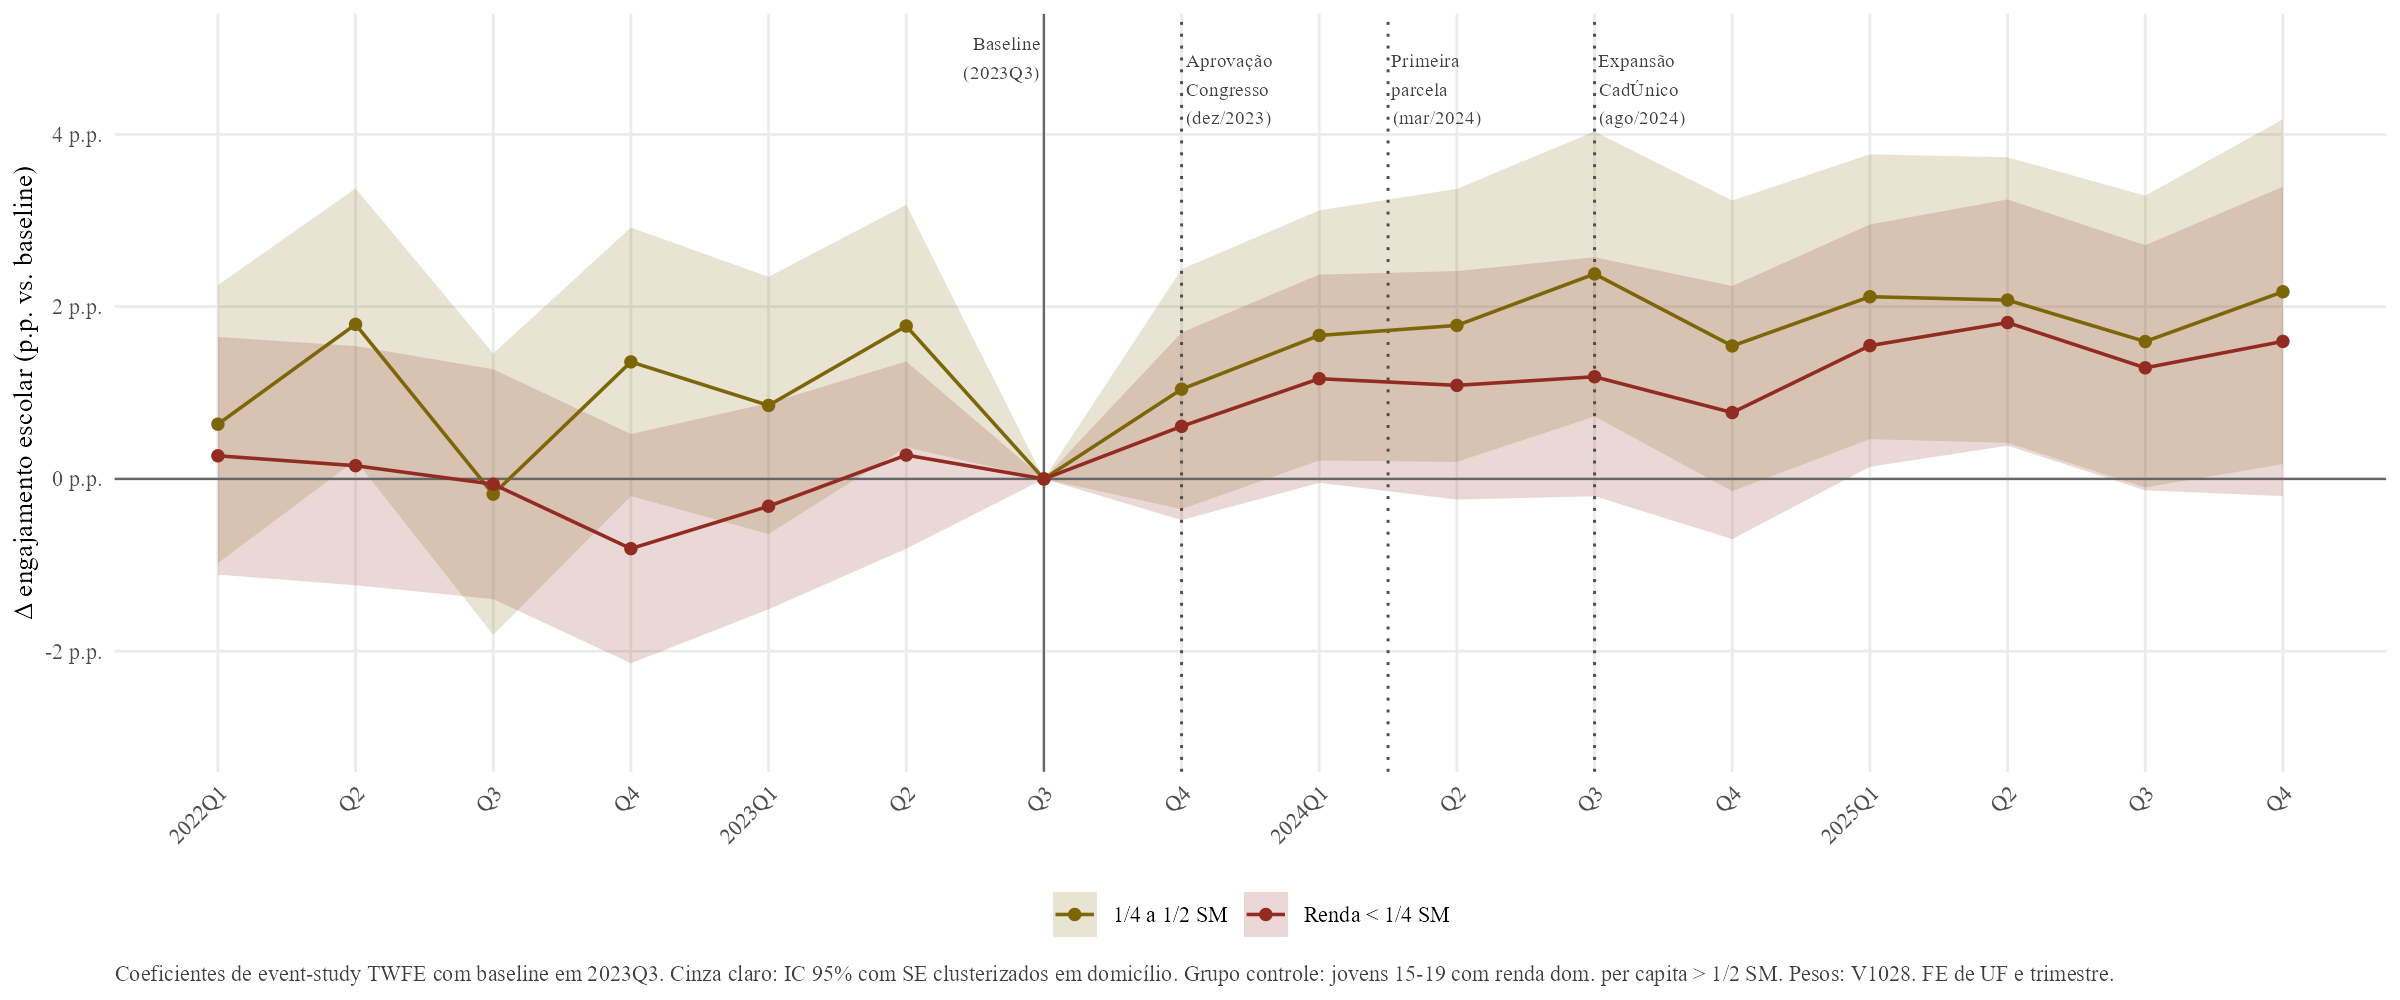
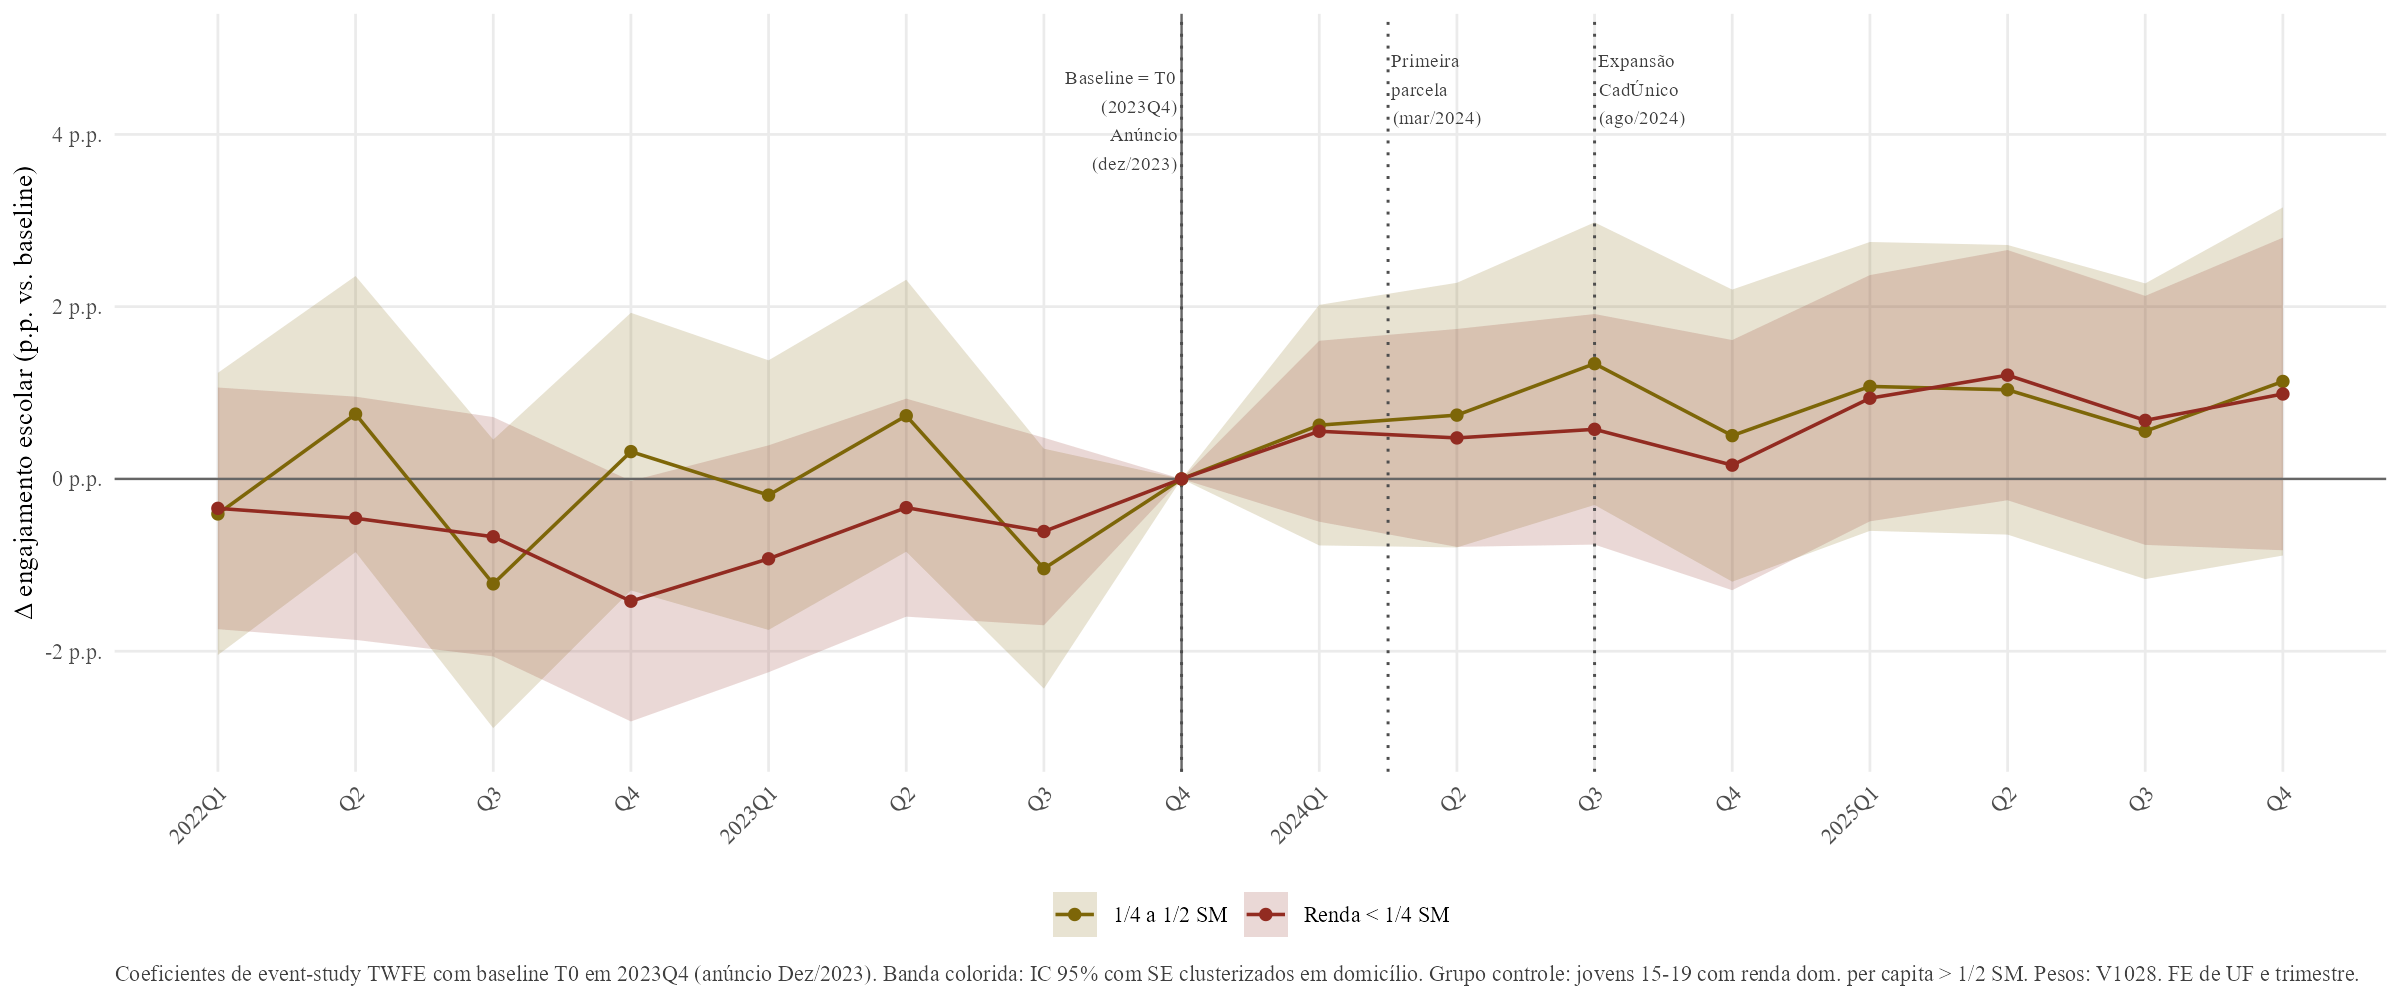
Rodada 32: T0 event study movido para 2023Q4 (anuncio)
Correcao do autor: baseline T0 deve ser 2023Q4 (trimestre do
anuncio/aprovacao Congresso em Dez/2023), nao 2023Q3.

Pre-trends agora 2022Q1-2023Q3 (7 trim), post 2024Q1-2025Q4 (8 trim).

C36: BASE_Q <- '2023Q4'
F17: x_baseline <- 2023.875
F17a e F17b re-renderizados.

diff --git a/CHANGELOG.md b/CHANGELOG.md
@@ -1579,3 +1579,23 @@ Pedido do autor: gráfico de eventos.
 - C36_event_study.R, C36_event_em.csv, C36_event_engage.csv
 - F17_event_study.R
 - F17a_event_em.{pdf,png}, F17b_event_engage.{pdf,png}
+
+---
+
+## 2026-06-26 — Rodada 32: T0 do event study movido para 2023Q4
+
+Correção do autor: baseline T0 deve ser 2023Q4 (anúncio/aprovação
+Congresso de Dez/2023), não 2023Q3.
+
+### Justificativa
+2023Q4 = trimestre do anúncio. Coloca o ponto de tratamento na
+fronteira entre pré (anúncio do programa em meados do trim) e pós
+(primeira parcela em mar/2024 = 2024Q1).
+
+### Mudanças
+- C36_event_study.R: BASE_Q <- "2023Q4"
+- F17_event_study.R: x_baseline <- 2023.875
+- Re-renderizado F17a e F17b com novo baseline
+
+Pre-trends agora 2022Q1-2023Q3 (7 trimestres), post 2024Q1-2025Q4
+(8 trimestres). Pre-trends visualmente mais limpos.